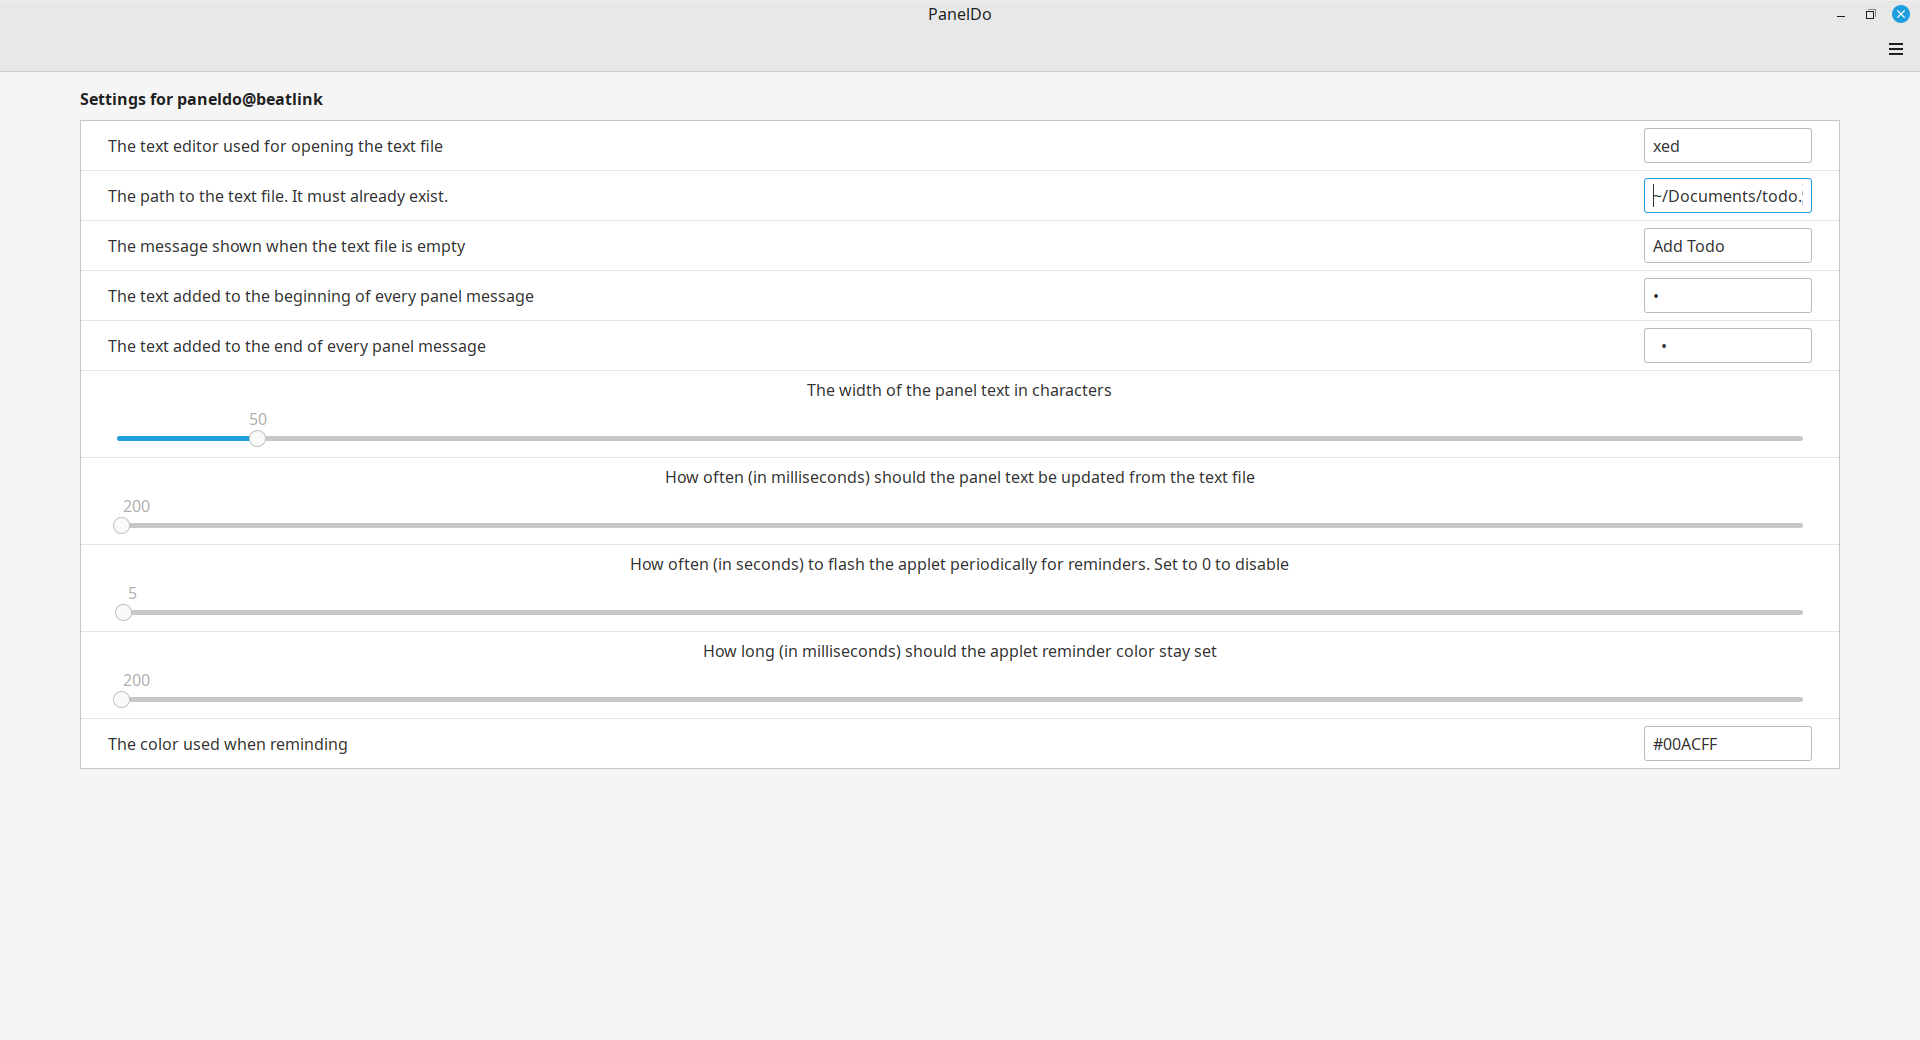
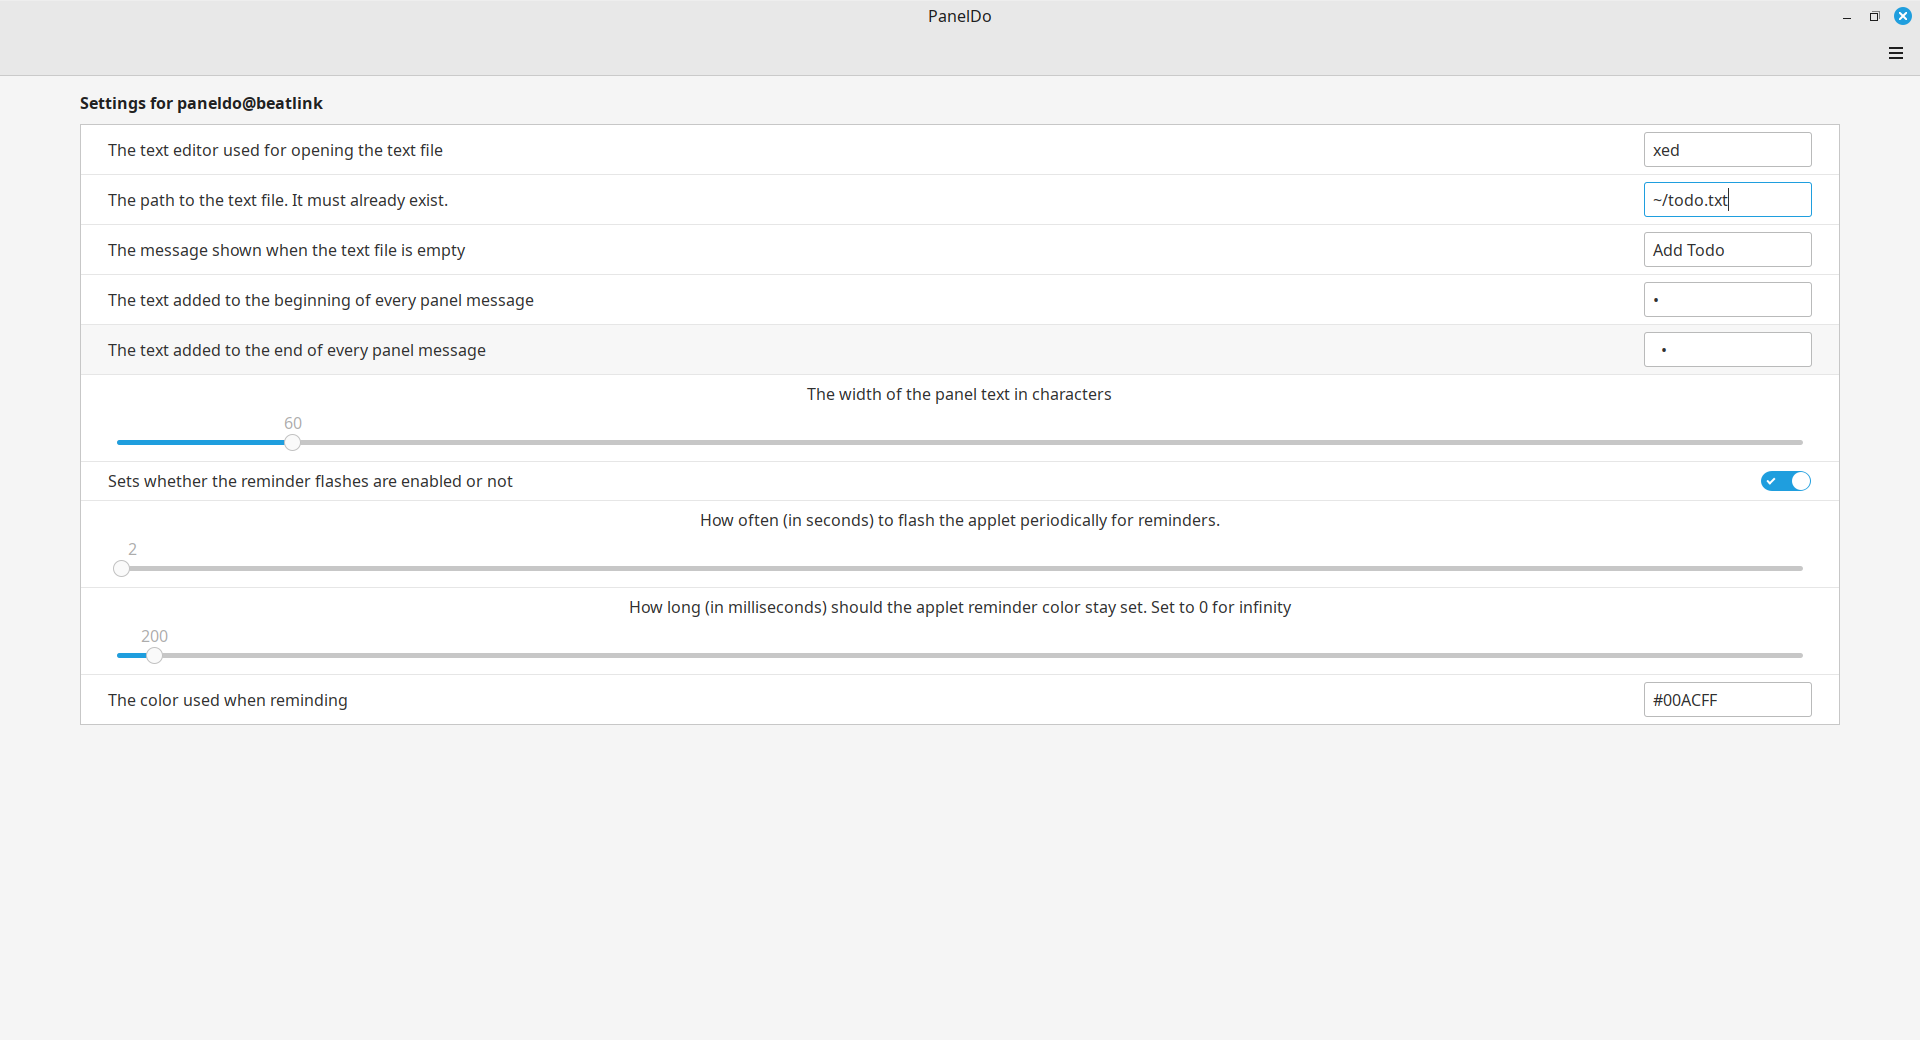
paneldo@beatlink: Add menu and reminder toggling (#6385)
* Add a toggle for triggering the reminders, as well as a menu option

diff --git a/paneldo@beatlink/files/paneldo@beatlink/applet.js b/paneldo@beatlink/files/paneldo@beatlink/applet.js
@@ -8,47 +8,100 @@ const Applet = imports.ui.applet;
 const GLib = imports.gi.GLib;
 const Util = imports.misc.util;
 const Settings = imports.ui.settings;
+const PopupMenu = imports.ui.popupMenu;
 const Mainloop = imports.mainloop; 		// for repeated updating
 
 // Constants
 const UUID = "paneldo@beatlink";
 
-function MyApplet(orientation) {
-	this._init(orientation);
-}
 
-MyApplet.prototype = {
-    __proto__: Applet.TextIconApplet.prototype,
-	_init: function(orientation,instanceId) {
-		this._preferences = {};
-		this.settings = new Settings.AppletSettings(this._preferences, UUID, instanceId);
-		for (let setting of ["list_editor", "path_to_file", "empty_file_message", "prefix_string", "suffix_string", "text_width", "reminder_time", "reminder_delay", "reminder_color"]){
-			this.settings.bindProperty(Settings.BindingDirection.IN, setting, setting,this.on_settings_changed, null);
+class PaneldoApplet extends Applet.TextIconApplet {
+
+	constructor(metadata, orientation, panelHeight, instanceId) {
+		super(orientation, panelHeight, instanceId);
+        this._metadata = metadata;
+
+		// Configure Settings
+        this._settings_list_editor = null
+        this._settings_path_to_file = null
+        this._settings_empty_file_message = null
+        this._settings_prefix_string = null
+        this._settings_suffix_string = null
+        this._settings_text_width = null
+		this._settings_reminder_enabled = false
+        this._settings_reminder_time = null
+        this._settings_reminder_delay = null
+        this._settings_reminder_color = null
+
+		this._settings_dict = {
+            "list_editor": "_settings_list_editor",
+            "path_to_file": "_settings_path_to_file",
+            "empty_file_message": "_settings_empty_file_message",
+            "prefix_string": "_settings_prefix_string",
+            "suffix_string": "_settings_suffix_string",
+            "text_width": "_settings_text_width",
+			"reminder_enabled": "_settings_reminder_enabled",
+            "reminder_time": "_settings_reminder_time",
+            "reminder_delay": "_settings_reminder_delay",
+            "reminder_color": "_settings_reminder_color"
+        };
+
+        this.settingsProvider = new Settings.AppletSettings(this, UUID, instanceId);
+		for (let setting in this._settings_dict){
+			this.settingsProvider.bindProperty(Settings.BindingDirection.BIDIRECTIONAL, setting, this._settings_dict[setting], this.update_panel, null);
 		}
-		Applet.TextIconApplet.prototype._init.call(this, orientation);
-   		try {
+
+		// Setup menu
+		this.menuManager = new PopupMenu.PopupMenuManager(this);
+		this.menu = new Applet.AppletPopupMenu(this, orientation);
+		this.menuManager.addMenu(this.menu);
+
+		this.edit_todos_menu = new PopupMenu.PopupMenuItem(_("Edit Todos"));
+		this.edit_todos_menu.connect('activate', this.edit_todo.bind(this))
+		this.menu.addMenuItem(this.edit_todos_menu);
+
+		this.toggle_reminder_menu = new PopupMenu.PopupSwitchMenuItem(_("Toggle Reminders"), false);
+		this.toggle_reminder_menu.connect('activate', this.toggle_reminder.bind(this))
+		this.menu.addMenuItem(this.toggle_reminder_menu);
+		
+
+		try {
 			this.update_panel();
 			this.update_reminder();
 		} catch (e) {
         	global.logError(e);
         }
-	},
-	on_applet_clicked: function(event) {
-		Util.spawnCommandLine(this._preferences.list_editor + " " + this._preferences.path_to_file);
-	},
+	}
 
-	update_panel: function() {
+	// Events ---------------------------------------------------------------------------------------------------------
+	on_applet_clicked() {
+        this.menu.toggle();
+	}
+
+
+	// Functions ------------------------------------------------------------------------------------------------------
+	edit_todo(){
+		global.logError("Running: " + this._settings_list_editor);
+		let commandLine = `${this._settings_list_editor} ${this._settings_path_to_file}`
+		Util.spawnCommandLine(commandLine);
+	}
+
+	toggle_reminder(){
+		this._settings_reminder_enabled = !this._settings_reminder_enabled
+	}
+
+	update_panel() {
 		let todoList = [];
-		let prefix = this._preferences.prefix_string
-		let suffix = this._preferences.suffix_string
-		this.file = this._preferences.path_to_file;
+		let prefix = this._settings_prefix_string
+		let suffix = this._settings_suffix_string
+		this.file = this._settings_path_to_file;
 		if (GLib.file_test(this.file, GLib.FileTest.EXISTS)) {
 			let content = GLib.file_get_contents(this.file)
 			let isReadSuccessful = content[0];
 			if (isReadSuccessful){
 				todoList = content[1].toString().split('\n').filter(val => !(typeof val == 'undefined' || val.substring(0,1) == "#" || val == "" || !val.trim().length));
-				let currentTodo = todoList.length > 0 ? todoList[0] : this._preferences.empty_file_message
-				this.set_applet_label(prefix + currentTodo.substring(0, this._preferences.text_width) + suffix);
+				let currentTodo = todoList.length > 0 ? todoList[0] : this._settings_empty_file_message
+				this.set_applet_label(prefix + currentTodo.substring(0, this._settings_text_width) + suffix);
 			} else {
 				this.set_applet_label(prefix + "Error while opening file" + suffix);
 			}
@@ -56,28 +109,26 @@ MyApplet.prototype = {
 			this.set_applet_label(prefix + "File does not exist. Create the file and set path in settings" + suffix);
 		}
 		Mainloop.timeout_add(1000, Lang.bind(this, this.update_panel));
-	},
+	}
 
-	update_reminder: function() {
-	    if (this._preferences.reminder_delay > 0) {
-    		this.actor.style = "background-color:" + this._preferences.reminder_color;
-			if (this._preferences.reminder_time >= 100){
-				Mainloop.timeout_add(this._preferences.reminder_time,  Lang.bind(this, this.cancel_reminder_background));
+	update_reminder() {
+	    if (this._settings_reminder_enabled) {
+    		this.actor.style = "background-color:" + this._settings_reminder_color;
+			if (this._settings_reminder_time >= 100){
+				Mainloop.timeout_add(this._settings_reminder_time,  Lang.bind(this, this.cancel_reminder_background));
 			}
-    		Mainloop.timeout_add((this._preferences.reminder_delay * 1000), Lang.bind(this, this.update_reminder));
+    		Mainloop.timeout_add((this._settings_reminder_delay * 1000), Lang.bind(this, this.update_reminder));
 	    } else {
 			Mainloop.timeout_add(1000, Lang.bind(this, this.update_reminder));
 		}
-	},
+	}
 
-	cancel_reminder_background: function() {
+	cancel_reminder_background() {
 		this.actor.style = "";
 	}
 
-
-};
+}
 
 function main(metadata, orientation, panel_height, instanceId) {
-    let myApplet = new MyApplet(orientation,instanceId);
-    return myApplet;
+	return new PaneldoApplet (metadata, orientation, panel_height, instanceId)
 }
